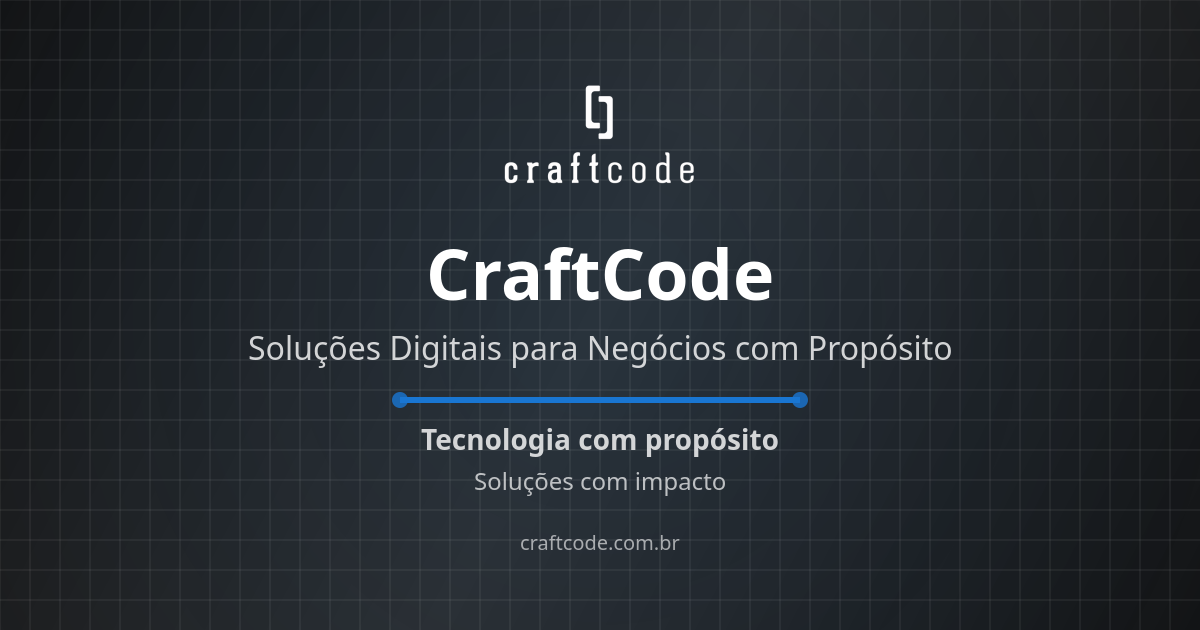
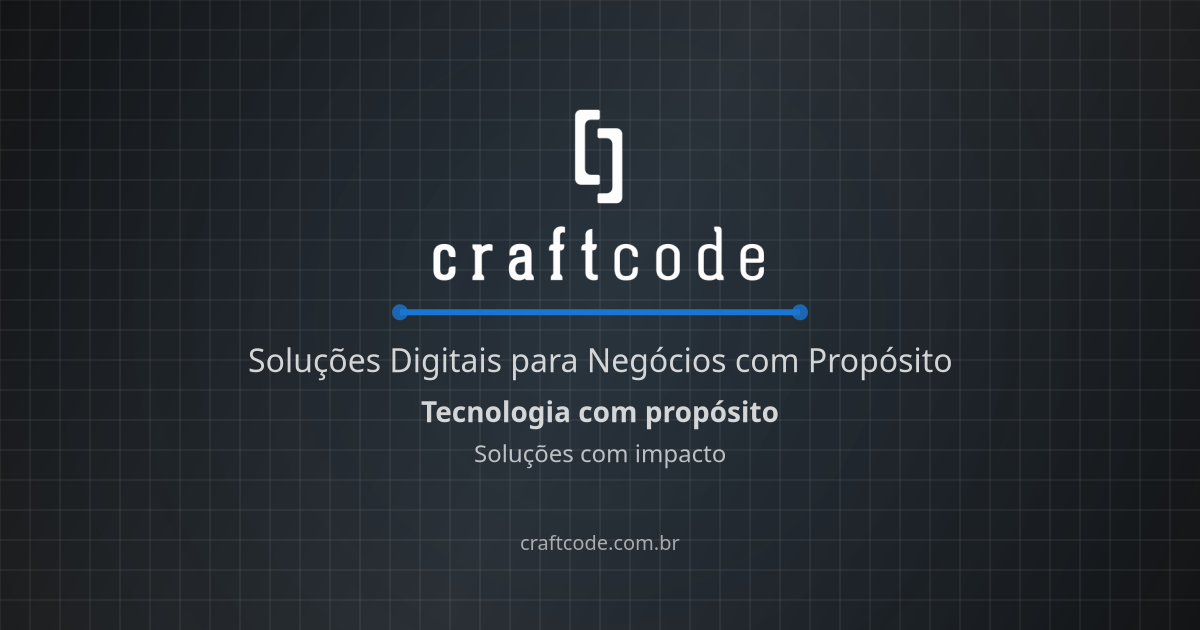
feat: improve the og images

Changed region(s): [[0.185, 0.5429, 0.8017, 0.7841], [0.3083, 0.3619, 0.6783, 0.5127], [0.4008, 0.1508, 0.5858, 0.3317]]

diff --git a/scripts/generate-og-image.js b/scripts/generate-og-image.js
@@ -76,54 +76,61 @@ async function generateMainOgImage() {
     ctx.stroke();
   }
 
-  // Load and draw logo
+  // Load and draw logo as the main focal point
+  let logoHeight = 0;
+  let logoBottom = 0;
   try {
     const logo = await loadImage(LOGO_PATH);
-    // Draw logo at the top center
-    const logoWidth = 200;
-    const logoHeight = (logo.height / logo.width) * logoWidth;
-    ctx.drawImage(logo, (1200 - logoWidth) / 2, 80, logoWidth, logoHeight);
+    // Draw logo at the top portion of the canvas with some padding
+    const logoWidth = 350; // Slightly smaller for better proportion
+    logoHeight = (logo.height / logo.width) * logoWidth;
+    const logoY = 100; // Position logo with padding from top
+    ctx.drawImage(logo, (1200 - logoWidth) / 2, logoY, logoWidth, logoHeight);
+    logoBottom = logoY + logoHeight;
   } catch (error) {
     console.warn('Warning: Could not load logo. Skipping logo placement.');
+    logoBottom = 200; // Fallback position if logo fails to load
   }
 
-  // Add title text
-  ctx.fillStyle = '#ffffff';
-  ctx.font = 'bold 70px "Inter", sans-serif';
+  // Set text alignment once for all text elements
   ctx.textAlign = 'center';
-  ctx.fillText('CraftCode', 600, 300);
-
-  // Add subtitle
-  ctx.fillStyle = 'rgba(255, 255, 255, 0.8)';
-  ctx.font = '32px "Inter", sans-serif';
-  ctx.fillText('Soluções Digitais para Negócios com Propósito', 600, 360);
-
-  // Add accent line
+  
+  // Add accent line directly below the logo
+  const accentLineY = logoBottom + 20; // 20px spacing after logo
   ctx.strokeStyle = '#1976D2'; // Azul Petróleo - Secondary brand color
   ctx.lineWidth = 6;
   ctx.beginPath();
-  ctx.moveTo(400, 400);
-  ctx.lineTo(800, 400);
+  ctx.moveTo(400, accentLineY);
+  ctx.lineTo(800, accentLineY);
   ctx.stroke();
   
-  // Add decorative elements
+  // Add decorative elements on the accent line
   ctx.fillStyle = 'rgba(25, 118, 210, 0.8)'; // Azul Petróleo with opacity
   ctx.beginPath();
-  ctx.arc(400, 400, 8, 0, Math.PI * 2);
+  ctx.arc(400, accentLineY, 8, 0, Math.PI * 2);
   ctx.fill();
   
   ctx.beginPath();
-  ctx.arc(800, 400, 8, 0, Math.PI * 2);
+  ctx.arc(800, accentLineY, 8, 0, Math.PI * 2);
   ctx.fill();
 
-  // Add tagline
+  // Add subtitle with proper spacing below the accent line
+  const subtitleY = accentLineY + 60; // 60px spacing after accent line
+  ctx.fillStyle = 'rgba(255, 255, 255, 0.8)';
+  ctx.font = '32px "Inter", sans-serif';
+  ctx.fillText('Soluções Digitais para Negócios com Propósito', 600, subtitleY);
+  
+  // Add first tagline with proper spacing
+  const taglineY = subtitleY + 50; // 50px spacing after subtitle
   ctx.fillStyle = 'rgba(255, 255, 255, 0.8)';
   ctx.font = 'bold 28px "Inter", sans-serif';
-  ctx.fillText('Tecnologia com propósito', 600, 450);
+  ctx.fillText('Tecnologia com propósito', 600, taglineY);
   
+  // Add second tagline
+  const secondTaglineY = taglineY + 40; // 40px spacing after first tagline
   ctx.fillStyle = 'rgba(255, 255, 255, 0.7)';
   ctx.font = '24px "Inter", sans-serif';
-  ctx.fillText('Soluções com impacto', 600, 490);
+  ctx.fillText('Soluções com impacto', 600, secondTaglineY);
 
   // Add website URL at the bottom
   ctx.fillStyle = 'rgba(255, 255, 255, 0.6)';
@@ -149,18 +156,18 @@ async function generateCardapioFacilOgImage() {
   const canvas = createCanvas(1200, 630);
   const ctx = canvas.getContext('2d');
 
-  // Draw gradient background - using a warmer color palette for food-related product
+  // Draw gradient background - using a green palette for food-related product
   const gradient = ctx.createLinearGradient(0, 0, 1200, 630);
-  gradient.addColorStop(0, '#E65100');    // Deep Orange 900 - Warm food color
-  gradient.addColorStop(0.5, '#F57C00');  // Orange 800 - Vibrant food color
-  gradient.addColorStop(1, '#E65100');    // Deep Orange 900 - Warm food color
+  gradient.addColorStop(0, '#0F766E');    // Teal 800 - Deep green
+  gradient.addColorStop(0.5, '#14B8A6');  // Teal 500 - Vibrant green
+  gradient.addColorStop(1, '#0F766E');    // Teal 800 - Deep green
   ctx.fillStyle = gradient;
   ctx.fillRect(0, 0, 1200, 630);
   
   // Add a subtle radial gradient overlay for depth
   const radialGradient = ctx.createRadialGradient(600, 315, 100, 600, 315, 800);
-  radialGradient.addColorStop(0, 'rgba(255, 183, 77, 0.15)');  // Orange 300 with opacity
-  radialGradient.addColorStop(1, 'rgba(255, 183, 77, 0)');
+  radialGradient.addColorStop(0, 'rgba(74, 222, 128, 0.15)');  // Green 400 with opacity
+  radialGradient.addColorStop(1, 'rgba(74, 222, 128, 0)');
   ctx.fillStyle = radialGradient;
   ctx.fillRect(0, 0, 1200, 630);
 
@@ -194,54 +201,57 @@ async function generateCardapioFacilOgImage() {
   ctx.arc(900, 400, 80, 0, Math.PI * 2);
   ctx.fill();
 
+  // Set text alignment once for all text elements
+  ctx.textAlign = 'center';
+
   // Add title text
   ctx.fillStyle = '#ffffff';
   ctx.font = 'bold 80px "Inter", sans-serif';
-  ctx.textAlign = 'center';
-  ctx.fillText('Cardápio Fácil', 600, 280);
+  ctx.fillText('Cardápio Fácil', 600, 180); // Moved up from 280
 
-  // Add subtitle
+  // Add subtitle with proper spacing
   ctx.fillStyle = 'rgba(255, 255, 255, 0.9)';
   ctx.font = 'bold 36px "Inter", sans-serif';
-  ctx.fillText('Planejamento de Refeições com IA', 600, 350);
+  ctx.fillText('Planejamento de Refeições com IA', 600, 250); // Moved up from 350
 
-  // Add accent line
-  ctx.strokeStyle = '#FFB74D'; // Orange 300 - Vibrant accent
+  // Add accent line with proper spacing
+  const accentLineY = 300; // Fixed position with good spacing
+  ctx.strokeStyle = '#4ACAA8'; // Verde Petróleo - Vibrant accent
   ctx.lineWidth = 6;
   ctx.beginPath();
-  ctx.moveTo(300, 400);
-  ctx.lineTo(900, 400);
+  ctx.moveTo(300, accentLineY);
+  ctx.lineTo(900, accentLineY);
   ctx.stroke();
   
   // Add decorative elements
-  ctx.fillStyle = 'rgba(255, 183, 77, 0.9)'; // Orange 300 with opacity
+  ctx.fillStyle = 'rgb(74, 222, 128)'; // Verde Petróleo - Secondary brand color
   ctx.beginPath();
-  ctx.arc(300, 400, 8, 0, Math.PI * 2);
+  ctx.arc(300, accentLineY, 8, 0, Math.PI * 2);
   ctx.fill();
   
   ctx.beginPath();
-  ctx.arc(900, 400, 8, 0, Math.PI * 2);
+  ctx.arc(900, accentLineY, 8, 0, Math.PI * 2);
   ctx.fill();
 
-  // Add tagline
+  // Add tagline with proper spacing
   ctx.fillStyle = 'rgba(255, 255, 255, 0.8)';
   ctx.font = 'bold 28px "Inter", sans-serif';
-  ctx.fillText('Alimentação descomplicada com a força da IA', 600, 450);
+  ctx.fillText('Alimentação descomplicada com a força da IA', 600, 370); // Moved from 450
 
-  // Add description text
+  // Add description text with proper spacing
   ctx.fillStyle = 'rgba(255, 255, 255, 0.7)';
   ctx.font = '22px "Inter", sans-serif';
-  ctx.fillText('Planejamento de refeições automatizado via WhatsApp', 600, 520);
+  ctx.fillText('Planejamento de refeições automatizado via WhatsApp', 600, 430); // Moved from 520
 
-  // Add website URL at the bottom
+  // Add website URL with proper spacing
   ctx.fillStyle = 'rgba(255, 255, 255, 0.7)';
   ctx.font = '22px "Inter", sans-serif';
-  ctx.fillText('cardapiofacil.online', 600, 550);
+  ctx.fillText('cardapiofacil.online', 600, 500); // Moved from 550
 
-  // Add powered by text
+  // Add powered by text at the bottom with proper spacing
   ctx.fillStyle = 'rgba(255, 255, 255, 0.5)';
   ctx.font = '18px "Inter", sans-serif';
-  ctx.fillText('Powered by CraftCode', 600, 580);
+  ctx.fillText('Powered by CraftCode', 600, 550); // Moved from 580
 
   // Convert canvas to buffer and save as PNG
   const buffer = canvas.toBuffer('image/png');

diff --git a/src/services/contactService.ts b/src/services/contactService.ts
@@ -1,0 +1,55 @@
+/**
+ * Contact Form Service
+ * Handles the submission of contact form data to the backend API
+ */
+
+export interface ContactFormData {
+  name: string;
+  email: string;
+  company?: string;
+  message: string;
+}
+
+/**
+ * Submits contact form data to the API
+ * @param data Form data to submit
+ * @returns Promise that resolves with the response data
+ */
+export const submitContactForm = async (data: ContactFormData): Promise<{ success: boolean; message: string }> => {
+  try {
+    // You can replace this with your actual API endpoint
+    const response = await fetch('https://api.craftcode.com.br/contact', {
+      method: 'POST',
+      headers: {
+        'Content-Type': 'application/json',
+      },
+      body: JSON.stringify(data),
+    });
+
+    if (!response.ok) {
+      // If the server responds with an error status
+      const errorData = await response.json();
+      throw new Error(errorData.message || 'Erro ao enviar o formulário');
+    }
+
+    const responseData = await response.json();
+    return {
+      success: true,
+      message: responseData.message || 'Mensagem enviada com sucesso!',
+    };
+  } catch (error) {
+    console.error('Error submitting contact form:', error);
+    
+    // For development/testing, you can simulate a successful response
+    // Remove this in production and let the real error propagate
+    if (process.env.NODE_ENV === 'development') {
+      console.log('DEV MODE: Simulating successful submission');
+      return {
+        success: true,
+        message: 'Mensagem enviada com sucesso! (Simulado em ambiente de desenvolvimento)',
+      };
+    }
+    
+    throw error;
+  }
+};

diff --git a/src/components/Contact.tsx b/src/components/Contact.tsx
@@ -15,6 +15,7 @@ import { useForm } from "react-hook-form";
 import { zodResolver } from "@hookform/resolvers/zod";
 import * as z from "zod";
 import { useState } from "react";
+import { submitContactForm } from "@/services/contactService";
 
 // Define the form validation schema
 const formSchema = z.object({
@@ -56,16 +57,20 @@ const Contact = () => {
     setSubmitError(null);
     
     try {
-      // In a real application, you would send this data to your backend
-      // For now, we'll simulate a successful submission after a delay
-      await new Promise(resolve => setTimeout(resolve, 1500));
+      // Submit form data using the contact service
+      const response = await submitContactForm({
+        name: data.name,
+        email: data.email,
+        company: data.company,
+        message: data.message
+      });
       
-      console.log("Form submitted:", data);
+      console.log("Form submitted successfully:", response);
       setSubmitSuccess(true);
       reset(); // Reset form fields after successful submission
-    } catch (error) {
+    } catch (error: any) {
       console.error("Form submission error:", error);
-      setSubmitError("Ocorreu um erro ao enviar sua mensagem. Por favor, tente novamente.");
+      setSubmitError(error.message || "Ocorreu um erro ao enviar sua mensagem. Por favor, tente novamente.");
     } finally {
       setIsSubmitting(false);
     }
